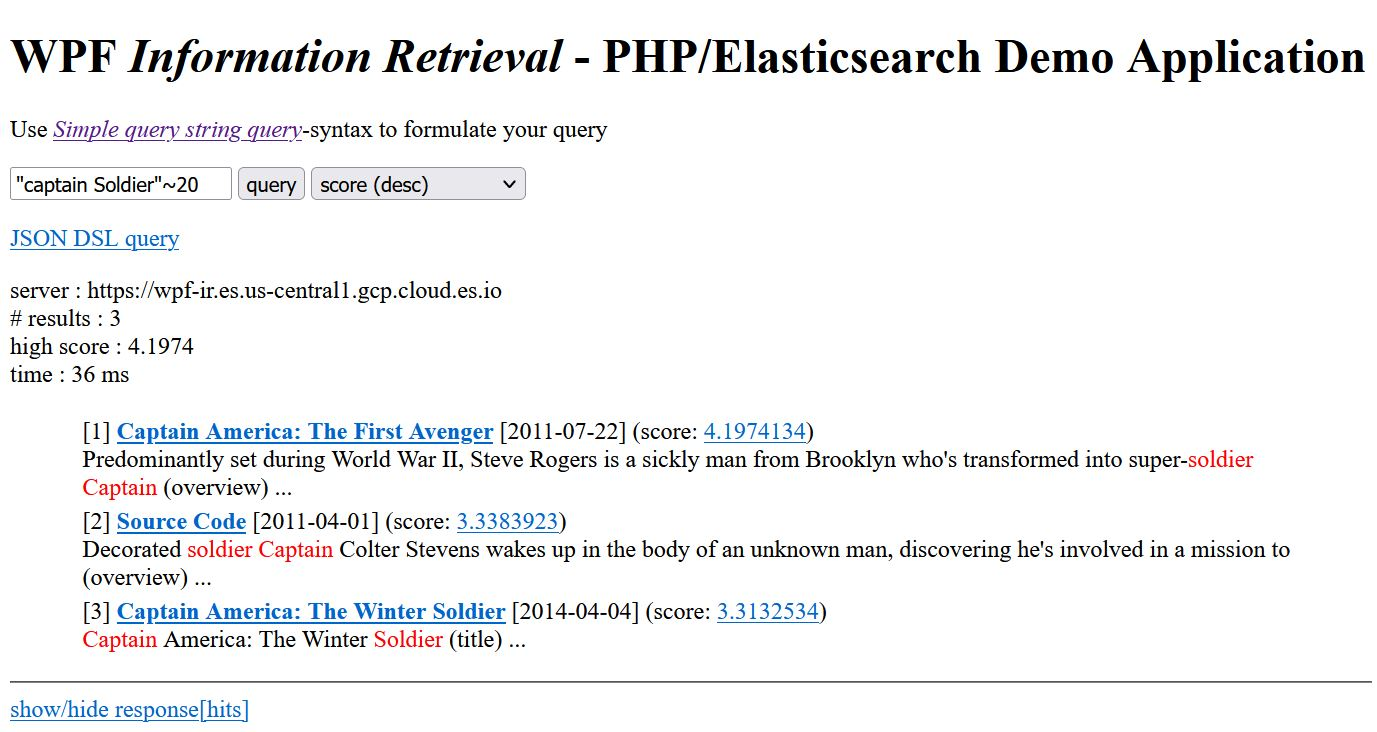
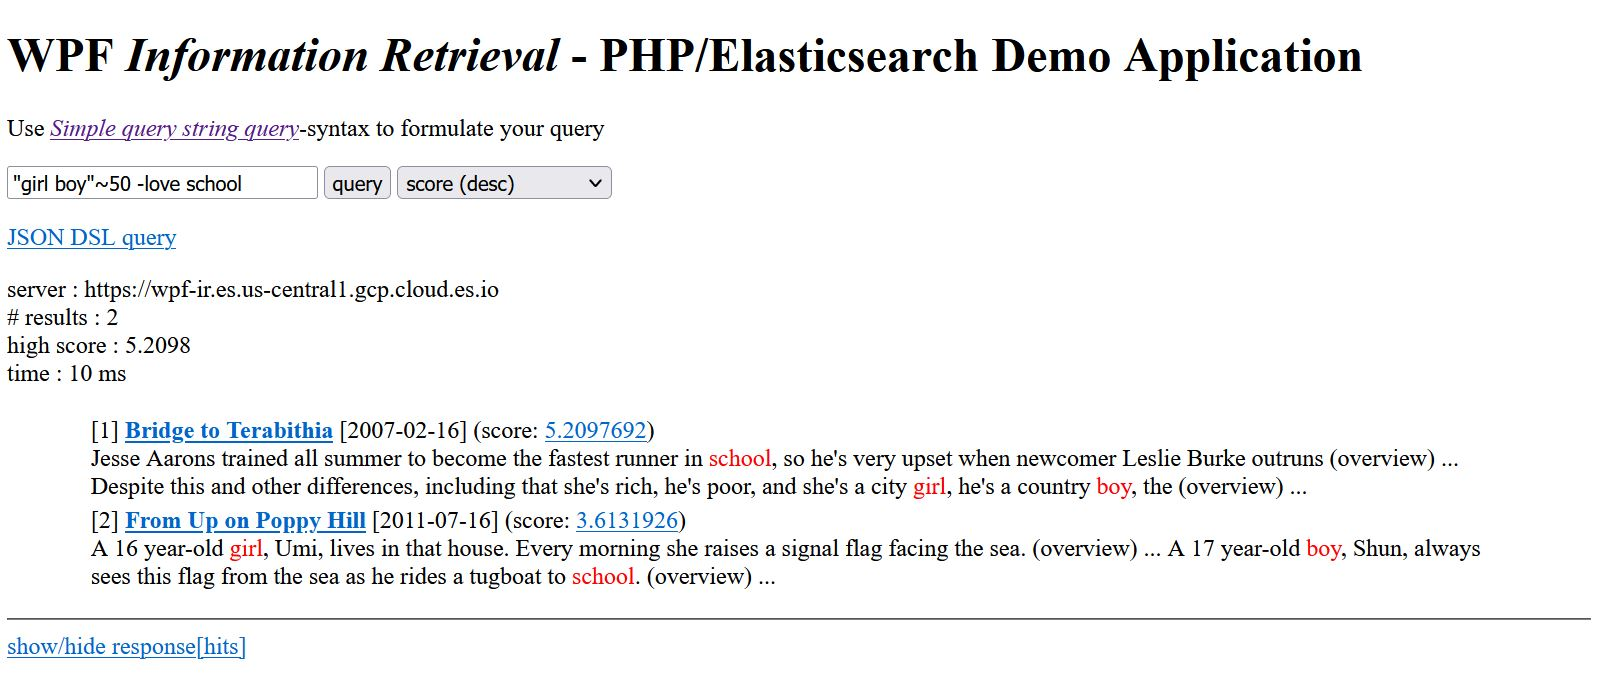
add documentation

Changed region(s): [[0.0, 0.1549, 0.9368, 0.8982], [0.0, 0.031, 0.9993, 0.1239], [0.0, 0.9292, 0.9993, 0.9912]]

diff --git a/web/php-demo-lib.php b/web/php-demo-lib.php
@@ -38,7 +38,7 @@ $sort_variants = ["_score:desc" => "score (desc)",
   <body>
     <form>
       Use <a href="https://www.elastic.co/guide/en/elasticsearch/reference/current/query-dsl-simple-query-string-query.html#simple-query-string-syntax"><em>Simple query string query</em></a>-syntax to formulate your query<p>
-      <input type="text" name="q" value="<?= $query_string_form ?>">
+      <input type="text" name="q" value="<?= $query_string_form ?>" size=30>
       <input type="submit" value="query">
       <select name="sort_order" onchange="this.form.submit()">
             <?php foreach ($sort_variants as $k => $v) { 

diff --git a/README.md b/README.md
@@ -1,5 +1,6 @@
 # PHP/Elasticsearch Demo Application
 
+Screenshot Web-page:
 ![](screenshot-search.JPG)
 
 Sample web-application that shows the usage of the php/elasticsearch library. 
